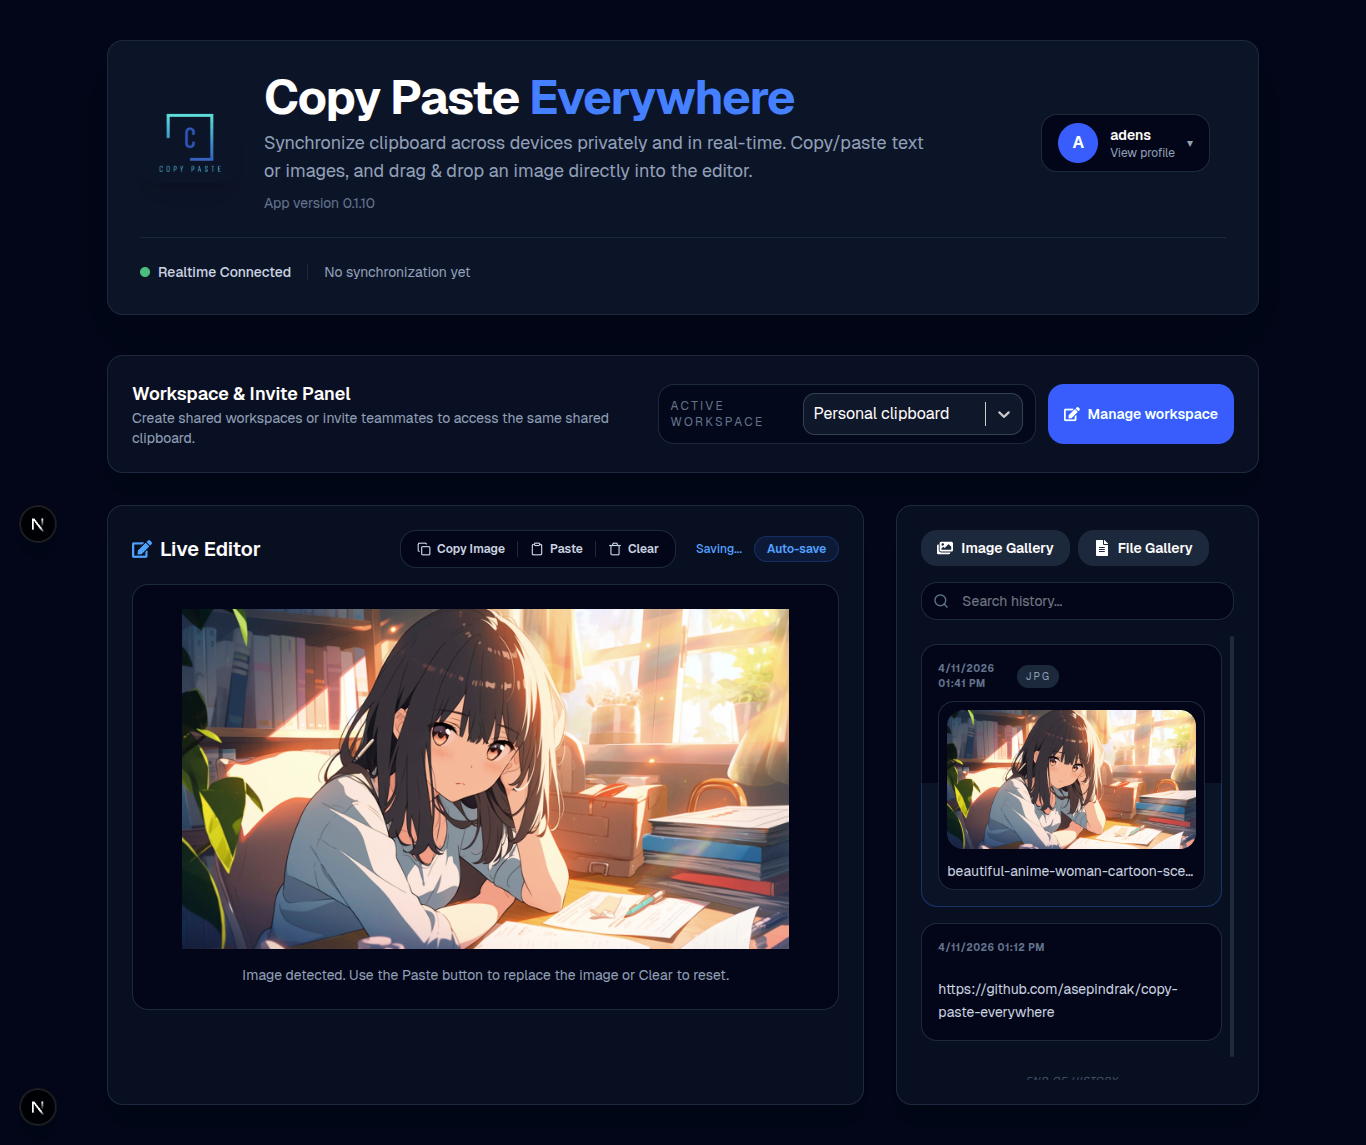
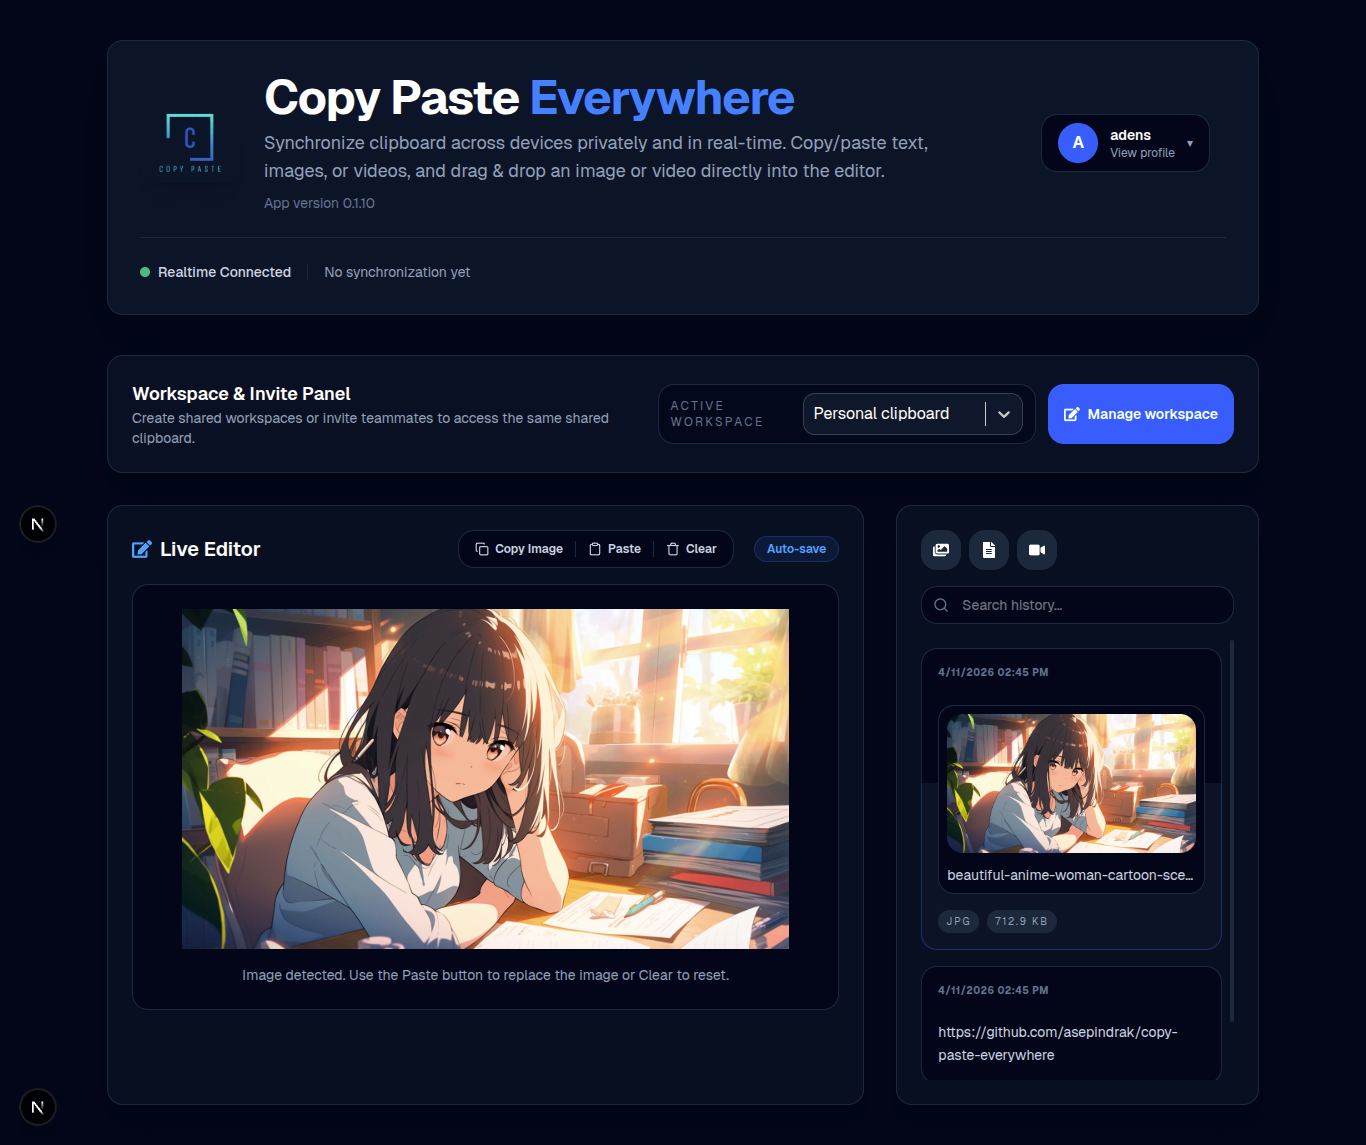
feat: add video support to clipboard synchronization, update README and package.json

diff --git a/src/app/page.tsx b/src/app/page.tsx
@@ -39,11 +39,11 @@ export default function Home() {
               </div>
             </div>
             <h1 className="mt-6 text-5xl font-extrabold tracking-tight text-transparent bg-gradient-to-r from-cyan-300 via-sky-400 to-blue-500 bg-clip-text sm:text-5xl animated-gradient-text">
-              Sync your clipboard across text, images, and files.
+              Sync your clipboard across text, images, videos, and files.
             </h1>
             <p className="mt-6 max-w-2xl text-xl font-semibold text-slate-300">
-              Sync text, images, and files across devices in real time. Browse
-              your clipboard history, preview images, download files, and
+              Sync text, images, videos, and files across devices in real time.
+              Browse your clipboard history, preview media, download files, and
               collaborate in shared workspaces.
             </p>
             <div className="mt-8 flex flex-col gap-4 sm:flex-row">
@@ -81,8 +81,8 @@ export default function Home() {
               </div>
               <div className="space-y-5 p-5">
                 <p className="text-sm text-slate-400 max-w-2xl">
-                  Text, images, or files are sent instantly and preserved in
-                  your history.
+                  Text, images, videos, or files are sent instantly and
+                  preserved in your history.
                 </p>
                 <div className="space-y-3 border-t border-slate-800/60 pt-4">
                   <div className="border-b border-slate-800/60 pb-4 last:border-b-0">
@@ -90,7 +90,8 @@ export default function Home() {
                       Editor
                     </p>
                     <p className="mt-2 text-sm text-slate-300">
-                      Write or paste text, then sync immediately.
+                      Write or paste text, images, or videos, then sync
+                      immediately.
                     </p>
                   </div>
                   <div className="border-b border-slate-800/60 pb-4 last:border-b-0">
@@ -100,6 +101,15 @@ export default function Home() {
                     <p className="mt-2 text-sm text-slate-300">
                       Browse copied images, preview full-size, and copy/download
                       with one click.
+                    </p>
+                  </div>
+                  <div className="border-b border-slate-800/60 pb-4 last:border-b-0">
+                    <p className="text-xs font-semibold uppercase tracking-[0.2em] text-slate-500">
+                      Video Support
+                    </p>
+                    <p className="mt-2 text-sm text-slate-300">
+                      Preview copied videos, play them inline, and save or
+                      download media from your clipboard history.
                     </p>
                   </div>
                   <div className="pb-4">
@@ -125,15 +135,18 @@ export default function Home() {
               </h3>
               <ul className="mt-6 space-y-4 text-sm text-slate-300">
                 <li>
-                  • Copy and paste text, images, or files in one unified
+                  • Copy and paste text, images, videos, or files in one unified
                   clipboard.
                 </li>
-                <li>• Drag & drop files to upload and sync instantly.</li>
                 <li>
-                  • Browse clipboard history with search and preview support.
+                  • Drag & drop files and videos to upload and sync instantly.
                 </li>
                 <li>
-                  • Download shared files and images directly from the
+                  • Browse clipboard history with search and media preview
+                  support.
+                </li>
+                <li>
+                  • Download shared files, images, and videos directly from the
                   dashboard.
                 </li>
                 <li>
@@ -205,6 +218,17 @@ export default function Home() {
                   <p className="mt-3 text-sm text-slate-300">
                     Search copied files, review metadata, and download files
                     from your clipboard history.
+                  </p>
+                </div>
+              </div>
+              <div className="rounded-xl gradient-border animate-border">
+                <div className="rounded-xl bg-slate-950 p-6">
+                  <h4 className="text-base font-semibold text-white">
+                    Video Gallery
+                  </h4>
+                  <p className="mt-3 text-sm text-slate-300">
+                    Play and preview copied videos, then download or save them
+                    directly from your clipboard history.
                   </p>
                 </div>
               </div>

diff --git a/src/app/dashboard/page.tsx b/src/app/dashboard/page.tsx
@@ -1594,8 +1594,8 @@ export default function DashboardPage() {
                 </h1>
                 <p className="max-w-2xl text-lg text-slate-400">
                   Synchronize clipboard across devices privately and in
-                  real-time. Copy/paste text or images, and drag & drop an image
-                  directly into the editor.
+                  real-time. Copy/paste text, images, or videos, and drag & drop
+                  an image or video directly into the editor.
                 </p>
                 <div className="text-sm text-slate-500">
                   App version {appVersion}

diff --git a/README.md b/README.md
@@ -8,7 +8,7 @@
   <img src="copy-paste-everywhere.png" alt="Copy Paste Everywhere Preview" width="100%" style="max-width: 920px;" />
 </p>
 
-**Copy Paste Everywhere** is a lightweight, private, and real-time clipboard synchronization tool. It allows you to sync text and images across all your devices instantly using WebSockets.
+**Copy Paste Everywhere** is a lightweight, private, and real-time clipboard synchronization tool. It allows you to sync text, images, and videos across all your devices instantly using WebSockets.
 
 ![Next.js](https://img.shields.io/badge/Next.js-15-black?style=flat-square&logo=next.js)
 ![Socket.io](https://img.shields.io/badge/Socket.io-4.8-blue?style=flat-square&logo=socket.io)
@@ -21,10 +21,11 @@
 - **Private & Secure**: Built-in authentication with NextAuth.js. Each user has their own private clipboard history.
 - **Live Editor**: A simple, intuitive interface to write or paste text.
 - **Image Gallery**: Browse and preview copied images, then copy, download, or delete them from a dedicated gallery modal.
+- **Video Support**: Preview and play copied videos, with download and history tracking for video clipboard items.
 - **File Gallery**: Browse copied files with search, metadata badges, and one-click download/delete actions.
-- **Image & File Support**: Paste images directly or drag & drop files into the dashboard for instant clipboard syncing.
+- **Image, Video & File Support**: Paste images/videos directly or drag & drop files into the dashboard for instant clipboard syncing.
 - **S3-compatible Storage**: Optional file upload support for AWS S3 or S3-compatible endpoints, with backward compatibility for existing database image items.
-- **Downloadable Items**: Download uploaded files directly from the dashboard.
+- **Downloadable Items**: Download uploaded files and videos directly from the dashboard.
 - **File Metadata**: File-type and file-size badges appear for uploaded files.
 - **History Tracking**: Keep track of your previous clipboard items.
 - **Workspace Collaboration**: Create workspaces, invite teammates, and sync clipboard items only within active shared workspaces.
